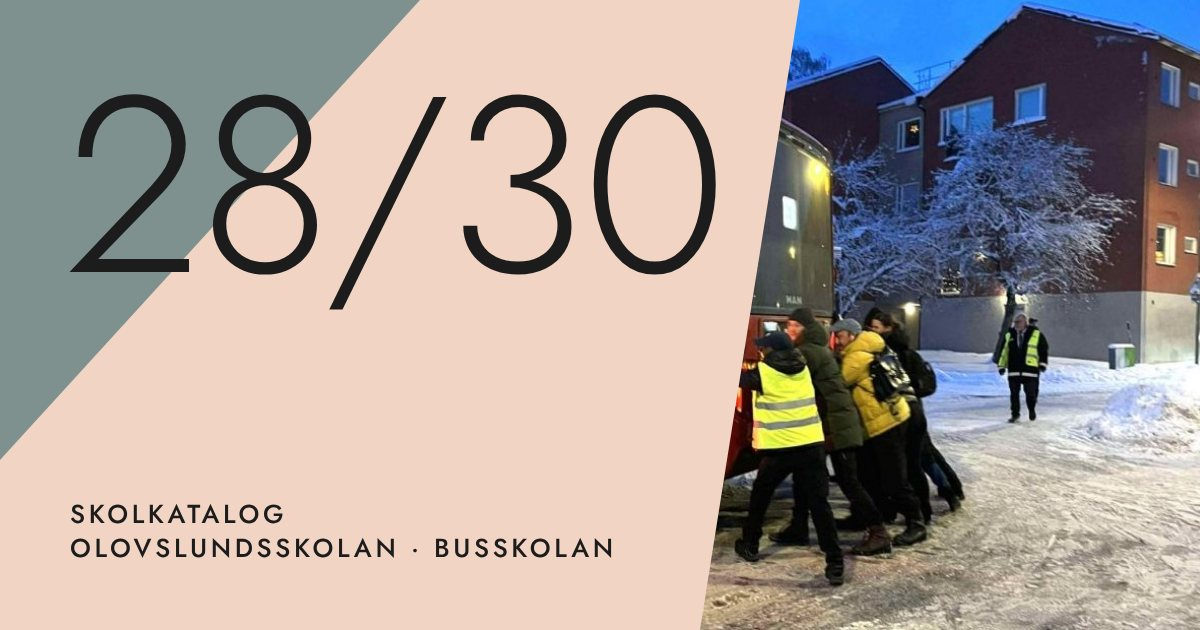
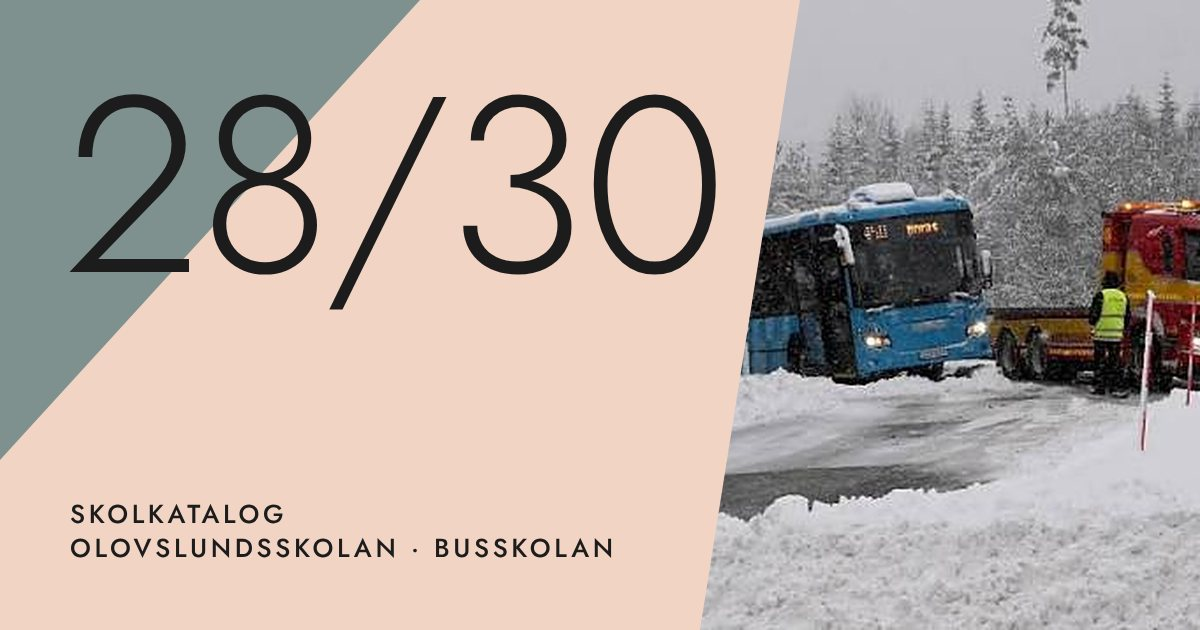
Ny sidordning, citatsidor, ny omslagsbild och slutrad
- Bildloggen borttagen; sista sidan anger att fotografernas namn och
  bildernas källor är okända, med kontaktadress.
- Argumentsidan flyttad till sida 2 och fått länkboxarna; diarienumren
  ligger nu på sista sidan. Ny slutrad: "Vi vill cykla, vi vill gå.
  Inte Bussas härifrån."
- Två nya sidor med anonymiserade citat ur protestlistan.
- Ny omslagsbild och ny delningsbild.

Claude-Session: https://claude.ai/code/session_01WGj1JKm3Vdnyd1Yy8NYWjx

diff --git a/site/index.html b/site/index.html
@@ -22,11 +22,10 @@
 </head>
 <body>
 <main class="deck" id="deck" aria-label="Skolkatalog 28/30, bläddra i sidled">
-
-  <section class="slide slide--cover" id="sida-1" aria-label="Sida 1 av 11: omslag">
+  <section class="slide slide--cover" id="sida-1" aria-label="Sida 1 av 12: omslag">
     <div class="cover">
       <div class="cover__photo">
-        <img src="img/cover-buss.jpg" alt="Människor i varselvästar och vinterkläder trycker på en röd buss i snön, i blåskymning">
+        <img src="img/cover-buss.jpg" alt="Blå buss som bärgas av en bärgningsbil på en snöig väg, omgiven av snötyngd skog">
       </div>
       <div class="cover__triangle" aria-hidden="true"></div>
       <h1 class="cover__year"><span class="visually-hidden">Skolkatalog </span>28/30</h1>
@@ -39,39 +38,7 @@
     </div>
   </section>
 
-  <section class="slide" id="sida-2" aria-label="Sida 2 av 11: läs först">
-    <span class="corner" aria-hidden="true"></span>
-    <div class="page">
-      <p class="kicker">Skolkatalog 28/30</p>
-      <h2 class="intro__title">Det här är ingen vanlig skolkatalog</h2>
-      <p class="lead">Det är en parodi. I stället för klassfoton visar varje klass en buss. Om förslaget går igenom flyttar de yngsta eleverna, från förskoleklass till årskurs 3, till Vällingbyskolan och åker buss dit varje dag. Då blir bussen en del av skoldagen för många barn.</p>
-
-      <h3 class="intro__sub">Vad kommunen säger</h3>
-      <p class="source">Sammanfattning av föräldrarnas anteckningar från mötet med förvaltningen och rektor.</p>
-      <ol class="points">
-        <li><div><strong>Varför evakuering?</strong>Ett föreläggande från miljöförvaltningen 2017 om bristande ventilation, och tekniska installationer som nått slutet av sin livslängd. En planerad utbyggnad stoppades på grund av minskande elevkullar, och ett nytt inriktningsbeslut togs i juni 2025.</div></li>
-        <li><div><strong>Förslaget</strong>Enligt förvaltningen finns ingen enskild skola i Bromma som kan ta emot alla elever. Förskoleklass till årskurs 3 föreslås gå på Vällingbyskolan, med buss från Olovslund, och äldre elever på Ålstensskolan. Det beskrivs som den enda tillgängliga lösningen.</div></li>
-        <li><div><strong>Varför inte en paviljong i närområdet?</strong>Föräldrar har frågat varför man inte bygger en lokal paviljong och lånar specialsalar på skolor i närheten. Svaret: skolan kan inte evakueras delvis eftersom ventilationen inte går att stänga av i sektioner, och schemat för lärarna blir ohållbart över för många enheter. Rektor delar den bedömningen.</div></li>
-        <li><div><strong>Var är underlaget?</strong>Föräldrar har bett om underlag som visar varför andra lösningar och tomter valts bort. Förvaltningen medger att det finns väldigt lite dokumentation, eftersom bedömningarna görs löpande av handläggare innan tjänsteutlåtandet skrivs.</div></li>
-      </ol>
-
-      <div class="ctas">
-        <a class="cta" href="https://www.skrivunder.com/stoppa_evakueringen_av_olovslundsskolan_till_vallingbyskolan" rel="noopener">
-          <img src="img/qr-protestlista.svg" alt="">
-          <span><span class="cta__title">Skriv under protestlistan</span><span class="cta__text">Stoppa evakueringen av Olovslundsskolan till Vällingbyskolan</span></span>
-        </a>
-        <a class="cta" href="https://www.google.com/maps/dir//V%C3%A4llingbyskolan,+Stockholm/data=!4m4!4m3!2m1!5e0!3e3" rel="noopener">
-          <img src="img/qr-bussresa.svg" alt="">
-          <span><span class="cta__title">Testa bussresan själv</span><span class="cta__text">Kommunen säger att den ska ta max 15 minuter. Prova från där du står (Google Maps)</span></span>
-        </a>
-      </div>
-
-      <p class="contact">Kontakt: <a href="mailto:olovslundsskolanforaldrar@gmail.com">olovslundsskolanforaldrar@gmail.com</a></p>
-      <p class="footnote">Parodi. Inte utgiven av Olovslundsskolan, Stockholms stad eller SL.</p>
-    </div>
-  </section>
-
-  <section class="slide" id="sida-3" aria-label="Sida 3 av 11: varför är det här den bästa lösningen?">
+  <section class="slide" id="sida-2" aria-label="Sida 2 av 12: varför är det här den bästa lösningen?">
     <span class="corner" aria-hidden="true"></span>
     <div class="page">
       <p class="kicker">Fråga till politikerna</p>
@@ -88,23 +55,56 @@
         <li>Varför ska beslutet fattas nu, när förvaltningen själv medger att det finns väldigt lite dokumentation om vilka andra lösningar som valts bort?</li>
       </ol>
 
-      <p class="ask__close">Vi ifrågasätter inte renoveringen. Vi frågar varför just de minsta ska betala priset.</p>
+      <p class="ask__close">Vi vill cykla, vi vill gå. Inte Bussas härifrån.</p>
 
-      <h3 class="dnr__title">Diarienummer i underlaget</h3>
-      <ul class="dnr">
-        <li><strong>2017-003560</strong><span>Föreläggande om åtgärdsförslag för ventilation och buller, Olovslundsskolan (Miljö- och hälsoskyddsnämnden, 30 oktober 2017)</span></li>
-        <li><strong>2.6.3-9874/2016</strong><span>Inriktningsbeslut om utbyggnad och kapacitetsökning av Olovslundsskolan (Utbildningsnämnden, 21 februari 2019)</span></li>
-        <li><strong>UTBF 2023/7195</strong><span>Olovslundsskolan: verksamhetsanpassningar i samband med underhåll</span></li>
-        <li><strong>SISAB 2025/234</strong><span>Inriktningsbeslut: ombyggnad kök och matsal samt underhåll hus A, Olovslundsskolan</span></li>
-        <li><strong>2.6.3-2606/2018</strong><span>Evakueringsskola med idrottstält i Västerort</span></li>
-        <li><strong>UTBF 2022/240</strong><span>Barnkonsekvensanalys för Matteusskolan: underhåll och evakuering</span></li>
-        <li><strong>UTBF 2023/1126</strong><span>Vällingbyskolans ombyggnation</span></li>
-      </ul>
+      <div class="ctas">
+        <a class="cta" href="https://www.skrivunder.com/stoppa_evakueringen_av_olovslundsskolan_till_vallingbyskolan" rel="noopener">
+          <img src="img/qr-protestlista.svg" alt="">
+          <span><span class="cta__title">Skriv under protestlistan</span><span class="cta__text">Stoppa evakueringen av Olovslundsskolan till Vällingbyskolan</span></span>
+        </a>
+        <a class="cta" href="https://www.google.com/maps/dir//V%C3%A4llingbyskolan,+Stockholm/data=!4m4!4m3!2m1!5e0!3e3" rel="noopener">
+          <img src="img/qr-bussresa.svg" alt="">
+          <span><span class="cta__title">Testa bussresan själv</span><span class="cta__text">Kommunen säger att den ska ta max 15 minuter. Prova från där du står (Google Maps)</span></span>
+        </a>
+      </div>
       <p class="sources">Källor: yttrande och yrkande om återremiss till Utbildningsnämnden 2026-10-14 med bilagor, samt synpunkter från föräldrar.</p>
     </div>
   </section>
 
-  <section class="slide" id="sida-4" aria-label="Sida 4 av 11: förskoleklass">
+  <section class="slide" id="sida-3" aria-label="Sida 3 av 12: ur protestlistan, del 1">
+    <span class="corner" aria-hidden="true"></span>
+    <div class="page">
+      <p class="kicker">Över 500 har skrivit under</p>
+      <h2 class="voices__title">Det här skriver de</h2>
+      <div class="voices">
+        <figure class="voice voice--lead"><blockquote><p>”Nu sitter jag hemma med en sexåring och en åttaåring som gråter över att behöva byta både skola och lärare samtidigt. … Tryggheten är som bortblåst. För er är det ett beslut, för barnen är det hela deras vardag.”</p></blockquote></figure>
+        <figure class="voice"><blockquote><p>”Mina barnbarn drabbas. Jag har jobbat i skolans värld i 40 år. Allt med bussar är en risk för barn. Att rycka upp barn ur en känd miljö är aldrig bra. Orolig mormor”</p></blockquote></figure>
+        <figure class="voice"><blockquote><p>”Det är helt orimligt att flytta eleverna 6 km. Jag gick själv på Olovslundsskolan 1988 när den renoverades. Då flyttades vi till tillfälliga lokaler under ett år 200 meter bort. Fullt rimligt.”</p></blockquote></figure>
+        <figure class="voice"><blockquote><p>”Katastrof om dessa barn skall behöva flyttas på och sedan ha lång bussresa.”</p></blockquote></figure>
+        <figure class="voice"><blockquote><p>”Den planerade evakueringen drabbar mina fyra barns uppväxt och hela familjens tillvaro.”</p></blockquote></figure>
+      </div>
+      <p class="voices__note">Citat ur kommentarerna på protestlistan, utan namn. Mindre rättningar av stavning och stor bokstav. … markerar utelämnad text.</p>
+    </div>
+  </section>
+
+  <section class="slide" id="sida-4" aria-label="Sida 4 av 12: ur protestlistan, del 2">
+    <span class="corner" aria-hidden="true"></span>
+    <div class="page">
+      <p class="kicker">Över 500 har skrivit under</p>
+      <h2 class="voices__title">Fler röster</h2>
+      <div class="voices">
+        <figure class="voice voice--lead"><blockquote><p>”Jag skriver under eftersom detta är ett brott mot samhällskontraktet. Hur kan man kalla det skolval när det val man gjort helt plötsligt visar sig vara något helt annat?”</p></blockquote></figure>
+        <figure class="voice"><blockquote><p>”Det är inte rimligt att så små barn som går i låg- och mellanstadiet skall transporteras långa sträckor till en för dom helt okänd miljö. Varje skoldag. Under 2 års tid… kanske längre…”</p></blockquote></figure>
+        <figure class="voice"><blockquote><p>”Vi ska välja skola till nästa år och vill gärna välja Olovslundsskolan då vi bara hört bra saker om den och den ligger närmast ifrån där vi bor. Men en evakuering till Vällingbyskolan innebär att vi överväger andra skolor.”</p></blockquote></figure>
+        <figure class="voice"><blockquote><p>”BARNENS BÄSTA måste gälla även här. Bussning till Vällingby dålig lösning.”</p></blockquote></figure>
+        <figure class="voice"><blockquote><p>”Ekonomi får inte prioriteras före barnens trygghet.”</p></blockquote></figure>
+        <figure class="voice"><blockquote><p>”Vi vill att skolan ska vara kvar!”</p></blockquote></figure>
+      </div>
+      <p class="voices__note">Citat ur kommentarerna på protestlistan, utan namn. Mindre rättningar av stavning och stor bokstav. … markerar utelämnad text.</p>
+    </div>
+  </section>
+
+  <section class="slide" id="sida-5" aria-label="Sida 5 av 12: förskoleklass">
     <span class="corner" aria-hidden="true"></span>
     <div class="page">
       <header class="year"><span class="year__num" aria-hidden="true">F</span><h2 class="year__label">Förskoleklass</h2></header>
@@ -125,7 +125,7 @@
     </div>
   </section>
 
-  <section class="slide" id="sida-5" aria-label="Sida 5 av 11: årskurs 1">
+  <section class="slide" id="sida-6" aria-label="Sida 6 av 12: årskurs 1">
     <span class="corner" aria-hidden="true"></span>
     <div class="page">
       <header class="year"><span class="year__num" aria-hidden="true">1</span><h2 class="year__label">Årskurs 1</h2></header>
@@ -146,7 +146,7 @@
     </div>
   </section>
 
-  <section class="slide" id="sida-6" aria-label="Sida 6 av 11: årskurs 2">
+  <section class="slide" id="sida-7" aria-label="Sida 7 av 12: årskurs 2">
     <span class="corner" aria-hidden="true"></span>
     <div class="page">
       <header class="year"><span class="year__num" aria-hidden="true">2</span><h2 class="year__label">Årskurs 2</h2></header>
@@ -167,7 +167,7 @@
     </div>
   </section>
 
-  <section class="slide" id="sida-7" aria-label="Sida 7 av 11: årskurs 3">
+  <section class="slide" id="sida-8" aria-label="Sida 8 av 12: årskurs 3">
     <span class="corner" aria-hidden="true"></span>
     <div class="page">
       <header class="year"><span class="year__num" aria-hidden="true">3</span><h2 class="year__label">Årskurs 3</h2></header>
@@ -188,7 +188,7 @@
     </div>
   </section>
 
-  <section class="slide" id="sida-8" aria-label="Sida 8 av 11: årskurs 4">
+  <section class="slide" id="sida-9" aria-label="Sida 9 av 12: årskurs 4">
     <span class="corner" aria-hidden="true"></span>
     <div class="page">
       <header class="year"><span class="year__num" aria-hidden="true">4</span><h2 class="year__label">Årskurs 4</h2></header>
@@ -209,7 +209,7 @@
     </div>
   </section>
 
-  <section class="slide" id="sida-9" aria-label="Sida 9 av 11: årskurs 5">
+  <section class="slide" id="sida-10" aria-label="Sida 10 av 12: årskurs 5">
     <span class="corner" aria-hidden="true"></span>
     <div class="page">
       <header class="year"><span class="year__num" aria-hidden="true">5</span><h2 class="year__label">Årskurs 5</h2></header>
@@ -226,7 +226,7 @@
     </div>
   </section>
 
-  <section class="slide" id="sida-10" aria-label="Sida 10 av 11: årskurs 6">
+  <section class="slide" id="sida-11" aria-label="Sida 11 av 12: årskurs 6">
     <span class="corner" aria-hidden="true"></span>
     <div class="page">
       <header class="year"><span class="year__num" aria-hidden="true">6</span><h2 class="year__label">Årskurs 6</h2></header>
@@ -243,23 +243,36 @@
     </div>
   </section>
 
-  <section class="slide" id="sida-11" aria-label="Sida 11 av 11: bildlogg">
+  <section class="slide" id="sida-12" aria-label="Sida 12 av 12: om katalogen">
     <span class="corner" aria-hidden="true"></span>
     <div class="page">
-      <h2 class="log__title">Bildlogg</h2>
-      <ol class="log">
-        <li><span class="log__num">1</span><span>Blå elbuss, vagn 4110, linje 2 mot Norrtull<span class="log__meta">Används: FA, 2B, 4C · Fotograf/källa: ej angiven</span></span></li>
-        <li><span class="log__num">2</span><span>Blå MAN-bussar i snöoväder<span class="log__meta">Används: 2A, 4B · Fotograf/källa: ej angiven</span></span></li>
-        <li><span class="log__num">3</span><span>Orange bussar med skylten ”Bergvik”<span class="log__meta">Ej använd · Fotograf/källa: ej angiven</span></span></li>
-        <li><span class="log__num">4</span><span>Röd Scania-buss, vagn 1615<span class="log__meta">Används: 1B, 3C, 6B · Fotograf/källa: ej angiven</span></span></li>
-        <li><span class="log__num">5</span><span>Röd Scania-buss, vagn 1613<span class="log__meta">Används: 1C, 4A · Fotograf/källa: ej angiven</span></span></li>
-        <li><span class="log__num">6</span><span>Stillbild ur video med ett mediehus logotyp<span class="log__meta">Ej använd · Fotograf/källa: ej angiven</span></span></li>
-        <li><span class="log__num">7</span><span>Snöig väg med gula trähus och röda bussar<span class="log__meta">Används: FB, 3A, 5B · Fotograf/källa: ej angiven</span></span></li>
-        <li><span class="log__num">8</span><span>Röd buss, vagn 5536, människor som trycker<span class="log__meta">Används: omslag (utsnitt), 1A, 3B, 6A · Fotograf/källa: ej angiven</span></span></li>
-        <li><span class="log__num">9</span><span>Röd ledbuss, vagn 3842, linje 445 mot Slussen<span class="log__meta">Används: FC, 2C, 5A · Fotograf/källa: ej angiven</span></span></li>
-        <li><span class="log__num">10</span><span>Omslaget 25/26, förlaga för layouten<span class="log__meta">Ej använd · Fotograf/källa: ej angiven</span></span></li>
+      <p class="kicker">Skolkatalog 28/30</p>
+      <h2 class="intro__title">Det här är ingen vanlig skolkatalog</h2>
+      <p class="lead">Det är en parodi. I stället för klassfoton visar varje klass en buss. Om förslaget går igenom flyttar de yngsta eleverna, från förskoleklass till årskurs 3, till Vällingbyskolan och åker buss dit varje dag. Då blir bussen en del av skoldagen för många barn.</p>
+
+      <h3 class="intro__sub">Vad kommunen säger</h3>
+      <p class="source">Sammanfattning av föräldrarnas anteckningar från mötet med förvaltningen och rektor.</p>
+      <ol class="points">
+        <li><div><strong>Varför evakuering?</strong>Ett föreläggande från miljöförvaltningen 2017 om bristande ventilation, och tekniska installationer som nått slutet av sin livslängd. En planerad utbyggnad stoppades på grund av minskande elevkullar, och ett nytt inriktningsbeslut togs i juni 2025.</div></li>
+        <li><div><strong>Förslaget</strong>Enligt förvaltningen finns ingen enskild skola i Bromma som kan ta emot alla elever. Förskoleklass till årskurs 3 föreslås gå på Vällingbyskolan, med buss från Olovslund, och äldre elever på Ålstensskolan. Det beskrivs som den enda tillgängliga lösningen.</div></li>
+        <li><div><strong>Varför inte en paviljong i närområdet?</strong>Föräldrar har frågat varför man inte bygger en lokal paviljong och lånar specialsalar på skolor i närheten. Svaret: skolan kan inte evakueras delvis eftersom ventilationen inte går att stänga av i sektioner, och schemat för lärarna blir ohållbart över för många enheter. Rektor delar den bedömningen.</div></li>
+        <li><div><strong>Var är underlaget?</strong>Föräldrar har bett om underlag som visar varför andra lösningar och tomter valts bort. Förvaltningen medger att det finns väldigt lite dokumentation, eftersom bedömningarna görs löpande av handläggare innan tjänsteutlåtandet skrivs.</div></li>
       </ol>
+
+      <h3 class="dnr__title">Diarienummer i underlaget</h3>
+      <ul class="dnr">
+        <li><strong>2017-003560</strong><span>Föreläggande om åtgärdsförslag för ventilation och buller, Olovslundsskolan (Miljö- och hälsoskyddsnämnden, 30 oktober 2017)</span></li>
+        <li><strong>2.6.3-9874/2016</strong><span>Inriktningsbeslut om utbyggnad och kapacitetsökning av Olovslundsskolan (Utbildningsnämnden, 21 februari 2019)</span></li>
+        <li><strong>UTBF 2023/7195</strong><span>Olovslundsskolan: verksamhetsanpassningar i samband med underhåll</span></li>
+        <li><strong>SISAB 2025/234</strong><span>Inriktningsbeslut: ombyggnad kök och matsal samt underhåll hus A, Olovslundsskolan</span></li>
+        <li><strong>2.6.3-2606/2018</strong><span>Evakueringsskola med idrottstält i Västerort</span></li>
+        <li><strong>UTBF 2022/240</strong><span>Barnkonsekvensanalys för Matteusskolan: underhåll och evakuering</span></li>
+        <li><strong>UTBF 2023/1126</strong><span>Vällingbyskolans ombyggnation</span></li>
+      </ul>
+      <p class="sources">Diarienumren är hämtade ur bilagorna till yrkandet om återremiss, 2026-10-14.</p>
+
       <p class="contact">Kontakt: <a href="mailto:olovslundsskolanforaldrar@gmail.com">olovslundsskolanforaldrar@gmail.com</a></p>
+      <p class="footnote">Parodi. Inte utgiven av Olovslundsskolan, Stockholms stad eller SL. Fotografernas namn och bildernas källor är okända.</p>
     </div>
   </section>
 
@@ -269,7 +282,7 @@
   <button type="button" id="prev" aria-label="Föregående sida" disabled>
     <svg width="22" height="22" viewBox="0 0 24 24" fill="none" stroke="currentColor" stroke-width="2" stroke-linecap="round" stroke-linejoin="round" aria-hidden="true"><path d="M15 18l-6-6 6-6"/></svg>
   </button>
-  <span class="pager__count" id="count" aria-live="polite">1 / 11</span>
+  <span class="pager__count" id="count" aria-live="polite">1 / 12</span>
   <button type="button" id="next" aria-label="Nästa sida">
     <svg width="22" height="22" viewBox="0 0 24 24" fill="none" stroke="currentColor" stroke-width="2" stroke-linecap="round" stroke-linejoin="round" aria-hidden="true"><path d="M9 6l6 6-6 6"/></svg>
   </button>

diff --git a/site/styles.css b/site/styles.css
@@ -557,3 +557,43 @@ a:hover { color: #5E6E6C; }
   line-height: 1.4;
   color: var(--muted);
 }
+
+/* Citatsidor */
+.voices__title {
+  margin: 14px 0 0;
+  max-width: 14ch;
+  font-weight: 500;
+  font-size: clamp(34px, 8vw, 52px);
+  line-height: 1.02;
+  text-wrap: balance;
+}
+.voices {
+  margin-top: 28px;
+  display: flex;
+  flex-direction: column;
+  gap: 22px;
+}
+.voice {
+  margin: 0;
+  padding-top: 16px;
+  border-top: 1px solid var(--rule);
+}
+.voice blockquote {
+  margin: 0;
+  font-weight: 300;
+  font-size: clamp(20px, 4.6vw, 25px);
+  line-height: 1.3;
+  text-wrap: pretty;
+}
+.voice blockquote p { margin: 0; }
+.voice--lead { border-top: 2px solid var(--ink); }
+.voice--lead blockquote {
+  font-size: clamp(26px, 6.2vw, 36px);
+  line-height: 1.2;
+}
+.voices__note {
+  margin: 28px 0 0;
+  font-size: 13px;
+  line-height: 1.4;
+  color: var(--muted);
+}
